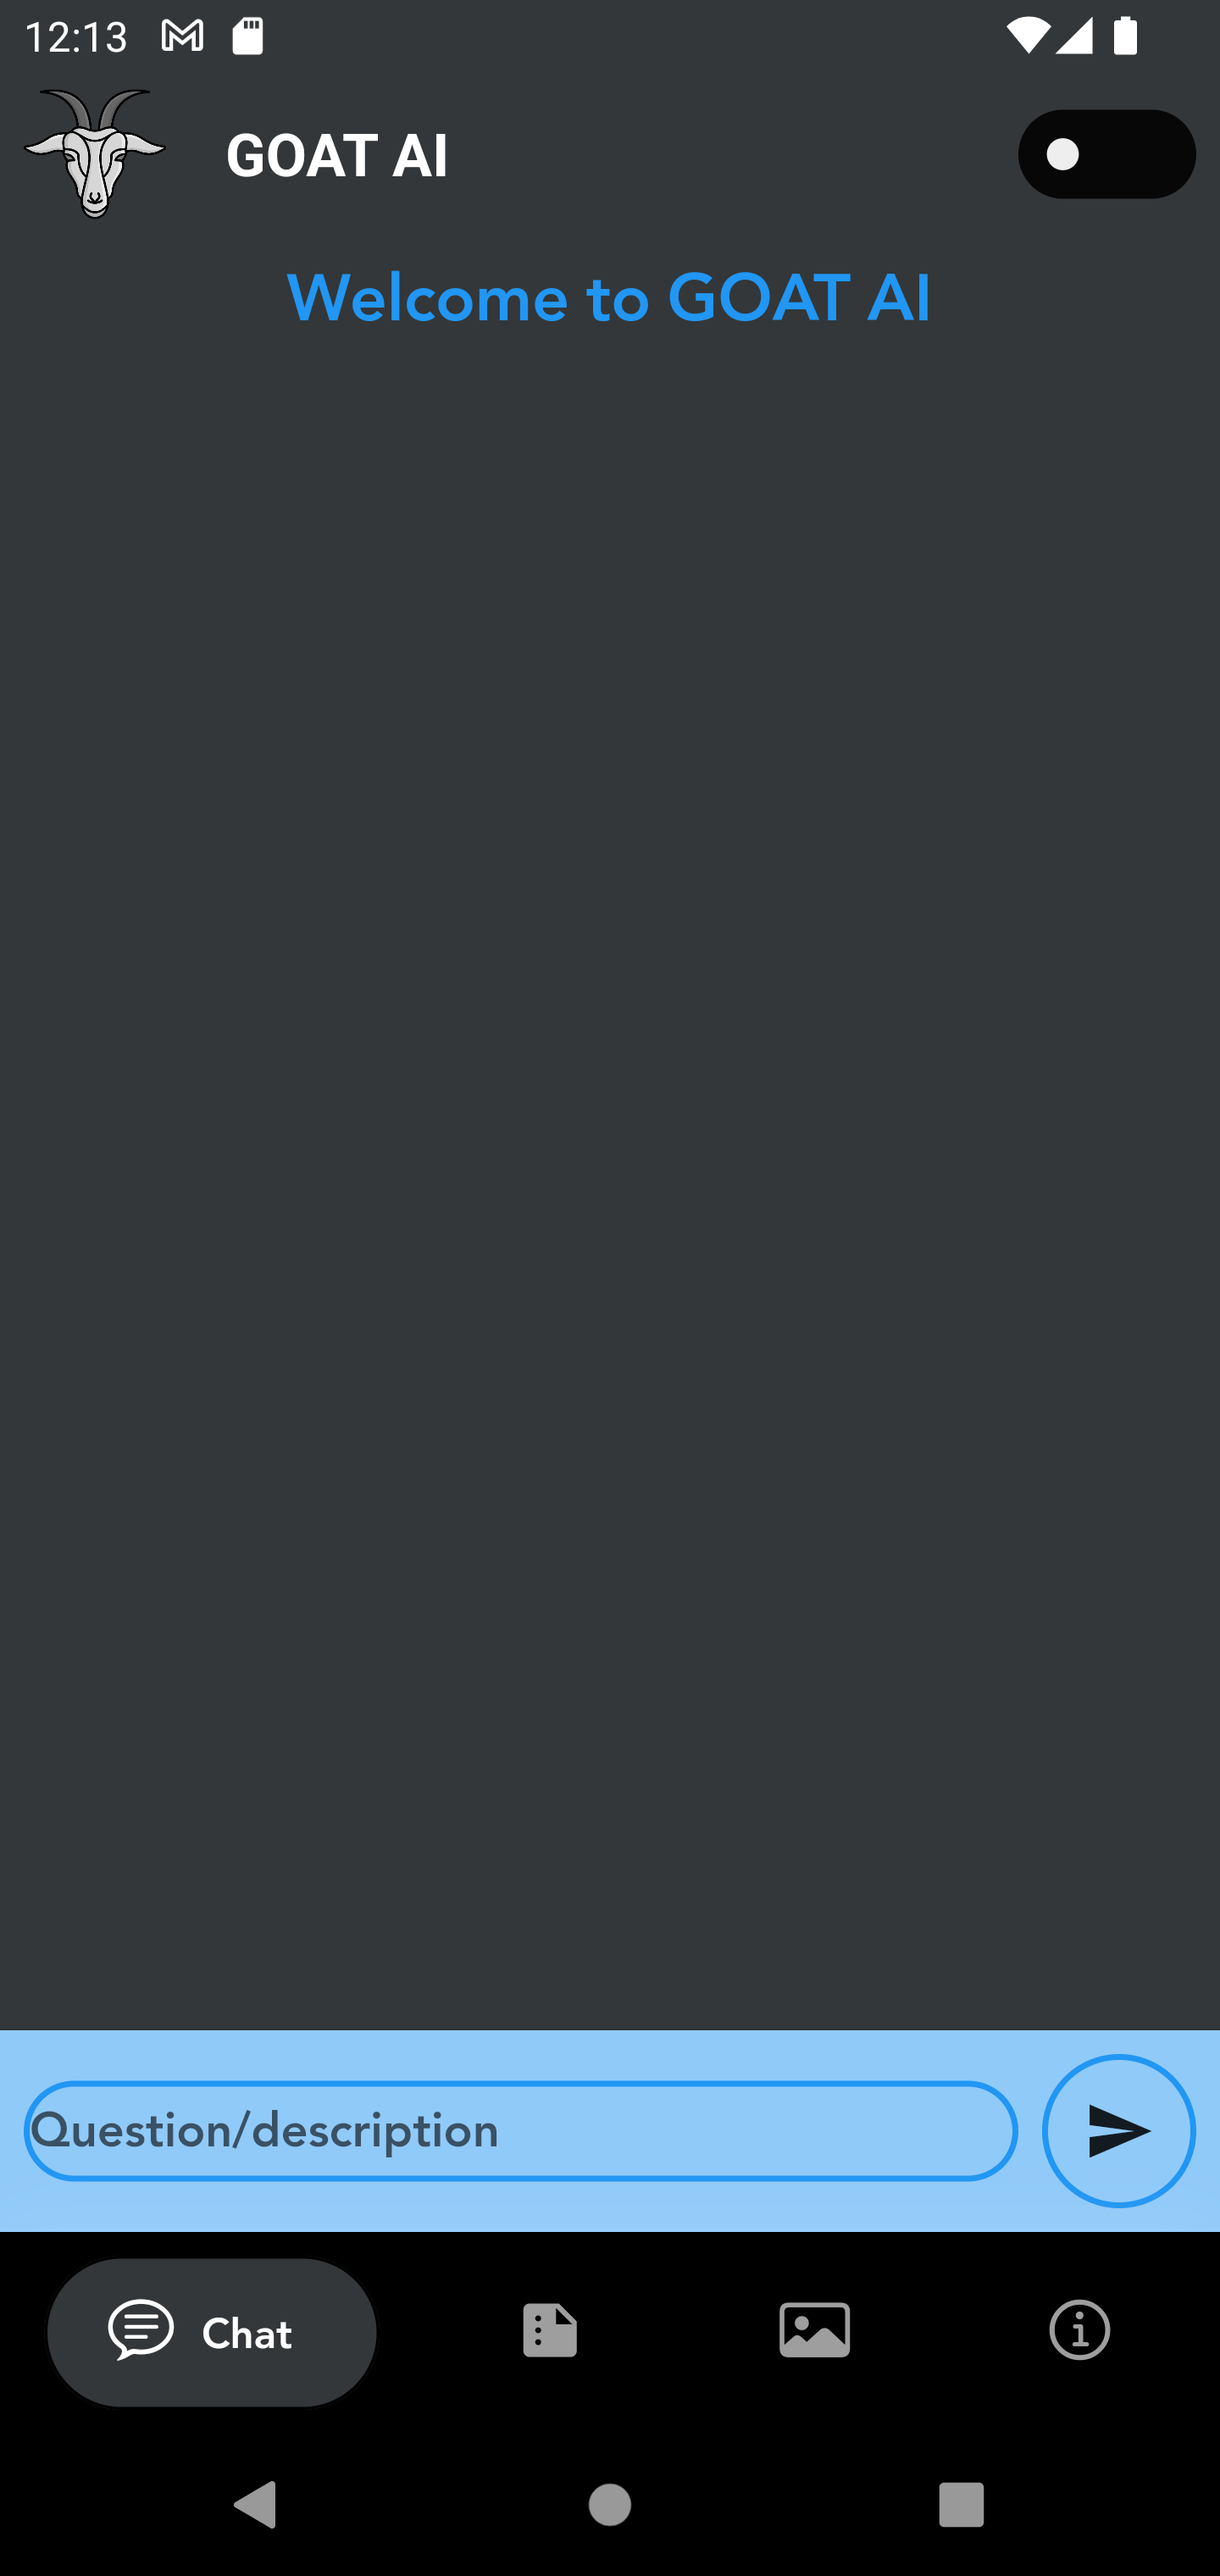
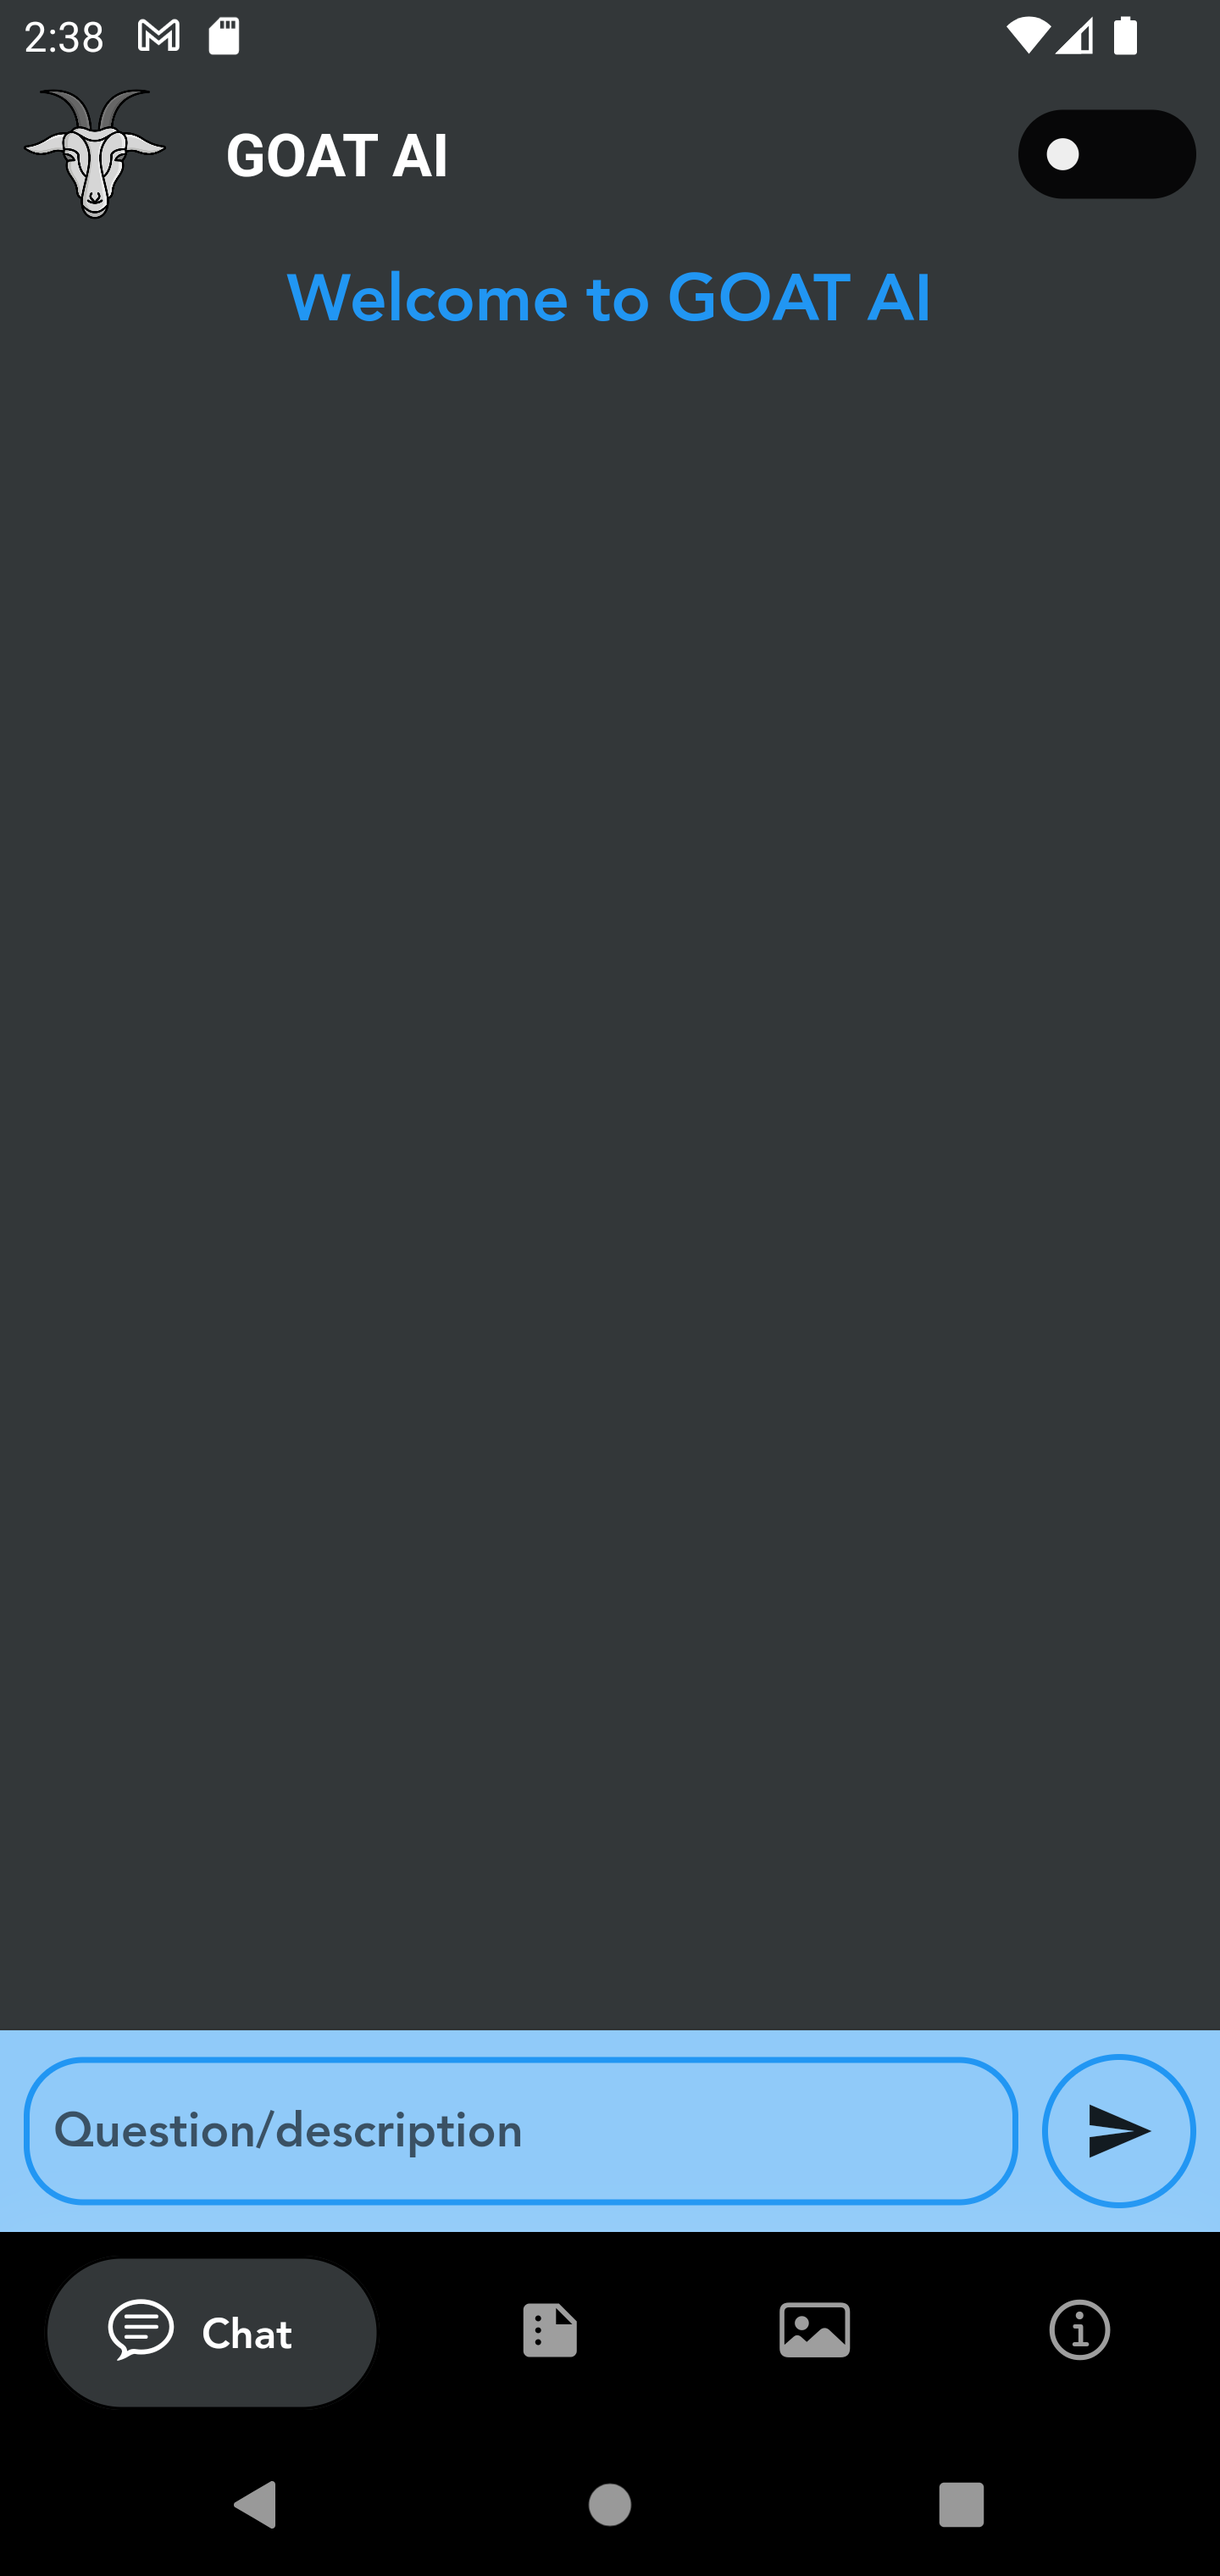
edit screen shots

Changed region(s): [[0.0, 0.7812, 0.8125, 0.875], [0.0312, 0.0, 0.2188, 0.0312], [0.8125, 0.8125, 0.8438, 0.8438]]

diff --git a/lib/modules/chat_screen/chat_screen.dart b/lib/modules/chat_screen/chat_screen.dart
@@ -50,11 +50,14 @@ class ChatScreen extends StatelessWidget {
                             width: 2, // Change the border width as desired
                           ),
                         ),
-                        child: TextField(
-                          controller:
-                              ChatCubit.get(context).descriptionController,
-                          decoration: const InputDecoration.collapsed(
-                              hintText: "Question/description"),
+                        child: Padding(
+                          padding: const EdgeInsets.all(8.0),
+                          child: TextField(
+                            controller:
+                                ChatCubit.get(context).descriptionController,
+                            decoration: const InputDecoration.collapsed(
+                                hintText: "Question/description"),
+                          ),
                         ),
                       ),
                     ),

diff --git a/README.md b/README.md
@@ -3,18 +3,17 @@ AI Chatbot Using PaLM API
 
 
 ## Built Using <a name = "tech"></a>
-- **Flutter (Dert)**
+- **Flutter (Dart)**
 
 
 ## Interface 🤖
 <div name="Screenshots" align="center">
    <img width=30% src="screenshots\gui.png" alt=""></a>
    <img width=30% src="screenshots\gui1.png" alt=""></a>
-   <hr>
+   <br>
    <img width=30% src="screenshots\gui2.png" alt=""></a>
    <img width=30% src="screenshots\gui3.png" alt=""></a>
-   <hr>
    <img width=30% src="screenshots\gui4.png" alt=""></a>
-    <img width=30% src="screenshots\gui5.png" alt=""></a>
+
    <hr>
 </div>
